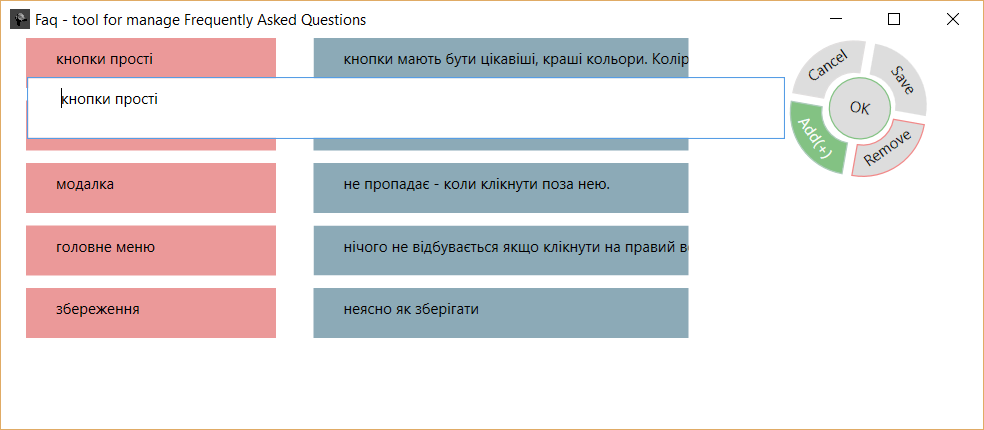
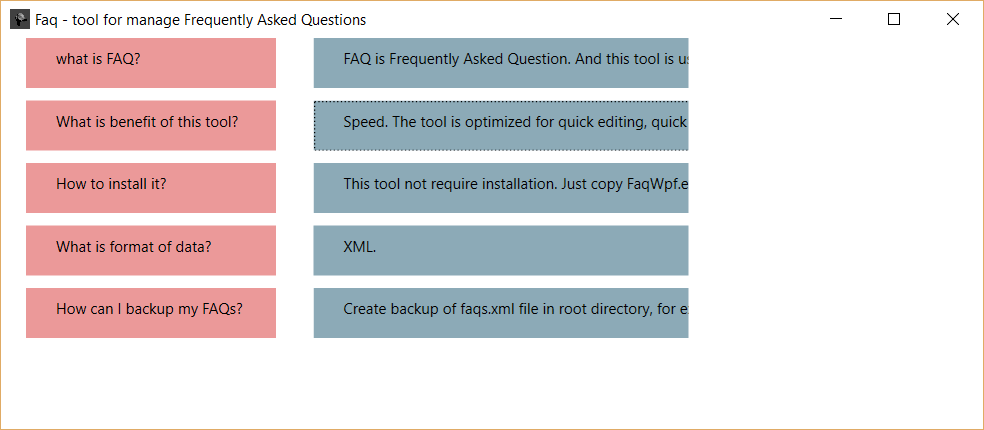
add description

diff --git a/Faq.Wpf/MainWindow.xaml b/Faq.Wpf/MainWindow.xaml
@@ -30,7 +30,7 @@
         <Canvas x:Name="LayoutRoot" Height="270" VerticalAlignment="Top" >
 
             <Canvas x:Name="editorContainer" Height="113" Canvas.Left="10" Canvas.Top="157" Width="774" Panel.ZIndex="1"  VerticalAlignment="Bottom" Visibility="Hidden">
-                <TextBox x:Name="editor" Width="606" Height="50" Padding="24,8,0,0" Canvas.Top="31" Canvas.Left="11"/>
+                <TextBox x:Name="editor" Width="606" MinHeight="50" Padding="24,8,0,0" Canvas.Top="31" Canvas.Left="11" TextWrapping="Wrap"/>
                 <Canvas Height="107" Canvas.Left="622" Canvas.Top="3" Width="108" RenderTransformOrigin="0.5,0.5" x:Name="canvasButtons" Opacity="0.7">
                     <Canvas.RenderTransform>
                         <RotateTransform Angle="0" x:Name="rotateTrans"/>                                                    

diff --git a/readme.md b/readme.md
@@ -1,5 +1,9 @@
 # FAQ
 
-## Faq is a tool to editing Faq (Frequently Asked Questions). editing is very fast and optimized for both mouse and keyboard.
+## Faq is a tool to editing Faq (Frequently Asked Questions).
+## I created this tool and use it for collection my FAQ related to new project - arhitecture details, some deploing steps, tables, classes, SP that used often. This tool help me to save huge amount of time - I ask some info in my teammates, search in mailbox, skype, etc. <s> only once</s>, max twice. Then I note it to my tool.
 
-![sample screen](screen.png)
+### FAQ is very fast and optimized for both mouse and keyboard. This following screenshot show the FAQ in view mode:
+![faq view screen](screen.png)
+## FAQ in the edit mode:   
+![faq edit screen](editmode.png)
